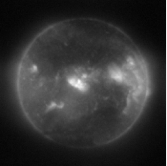
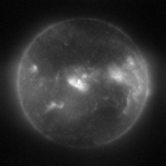
xde, tci

Changed region(s): [[0.994, 0.0, 1.0, 1.0]]

diff --git a/index.html b/index.html
@@ -112,8 +112,8 @@
             <td style="padding:20px;width:25%;vertical-align:middle">
               <div class="one">
                 <div class="two" id="xde_image" style="opacity: 0;">
-                  <img src="images/XDE_2.png" width="160"></div>
-                <img src="images/XDE_1.png" width="160">
+                  <img src="images/XDE_2.PNG" width="160"></div>
+                <img src="images/XDE_1.PNG" width="160">
               </div>
               <script type="text/javascript">
                 function xde_start() {
@@ -155,8 +155,8 @@
             <td style="padding:20px;width:25%;vertical-align:middle">
               <div class="one">
                 <div class="two" id="tci_image" style="opacity: 0;">
-                  <img src="images/TCI_2.png" width="160"></div>
-                <img src="images/TCI_1.png" width="160">
+                  <img src="images/TCI_2.PNG" width="160"></div>
+                <img src="images/TCI_1.PNG" width="160">
               </div>
               <script type="text/javascript">
                 function tci_start() {
